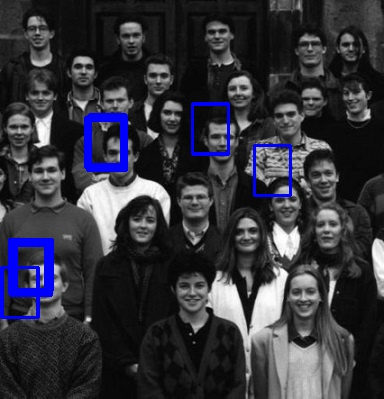
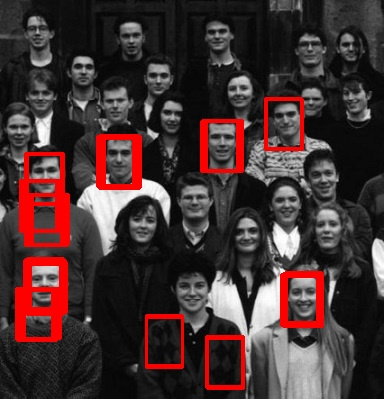
lol

diff --git a/q1/matchFaces_mine.py b/q1/matchFaces_mine.py
@@ -1,140 +1,212 @@
 # Student_Name1, Student_ID1
 # Student_Name2, Student_ID2
 
-# Please replace the above comments with your names and ID numbers in the same format.
-
 import cv2
 import numpy as np
 import matplotlib.pyplot as plt
 from numpy.fft import fft2, ifft2, fftshift, ifftshift
+import warnings
+warnings.filterwarnings("ignore")
 
+##########################################
+# a) scale_down(image, resize_ratio)
+##########################################
+def scale_down(image, resize_ratio):
+    """
+    Scale down the image using a Fourier transform (no smoothing).
+    The output dimensions are (resize_ratio * original dimensions).
+    """
+    image_float = image.astype(np.float32)
+    orig_h, orig_w = image.shape
+    new_h = int(orig_h * resize_ratio)
+    new_w = int(orig_w * resize_ratio)
 
-def scale_image(image, height_ratio, width_ratio):
-    """Scales an image using Fourier Transform based on separate height and width ratios."""
-    h, w = image.shape
-    new_h, new_w = int(h * height_ratio), int(w * width_ratio)
+    F = fftshift(fft2(image_float))
+    center_y, center_x = F.shape[0] // 2, F.shape[1] // 2
+    half_new_h = new_h // 2
+    half_new_w = new_w // 2
 
-    print(f"   -> Scaling image to {new_h}x{new_w} (height ratio: {height_ratio:.2f}, width ratio: {width_ratio:.2f})")
+    if new_h % 2 == 0:
+        y_start = center_y - half_new_h
+        y_end = center_y + half_new_h
+    else:
+        y_start = center_y - half_new_h
+        y_end = center_y + half_new_h + 1
 
-    scaled_image = cv2.resize(image, (new_w, new_h), interpolation=cv2.INTER_LINEAR)
-    return scaled_image
+    if new_w % 2 == 0:
+        x_start = center_x - half_new_w
+        x_end = center_x + half_new_w
+    else:
+        x_start = center_x - half_new_w
+        x_end = center_x + half_new_w + 1
 
+    F_cropped = F[y_start:y_end, x_start:x_end]
+    result = ifft2(ifftshift(F_cropped))
+    result = np.abs(result)
+    result = np.clip(result, 0, 255)
+    return result.astype(np.uint8)
 
+##########################################
+# b) scale_up(image, resize_ratio)
+##########################################
+def scale_up(image, resize_ratio):
+    """
+    Scale up the image using a Fourier transform.
+    Zero-pad the Fourier spectrum so that the output dimensions are
+    (resize_ratio * original dimensions).
+    """
+    image_float = image.astype(np.float32)
+    orig_h, orig_w = image.shape
+    new_h = int(orig_h * resize_ratio)
+    new_w = int(orig_w * resize_ratio)
+
+    F = fftshift(fft2(image_float))
+    newF = np.zeros((new_h, new_w), dtype=complex)
+
+    start_y = (new_h - orig_h) // 2
+    start_x = (new_w - orig_w) // 2
+    newF[start_y:start_y+orig_h, start_x:start_x+orig_w] = F
+
+    result = ifft2(ifftshift(newF))
+    result = np.abs(result)
+    scale_factor = (new_h * new_w) / (orig_h * orig_w)
+    result = result * scale_factor
+    result = np.clip(result, 0, 255)
+    return result.astype(np.uint8)
+
+def scale_image(image, resize_ratio):
+    """
+    Uniformly scale an image using Fourier methods.
+    """
+    if resize_ratio < 1:
+        return scale_down(image, resize_ratio)
+    elif resize_ratio > 1:
+        return scale_up(image, resize_ratio)
+    else:
+        return image.copy()
+
+##########################################
+# c) ncc_2d(image, pattern)
+##########################################
 def ncc_2d(image, pattern):
-    """Computes the Normalized Cross-Correlation (NCC) between an image and a pattern."""
-    image_patches = np.lib.stride_tricks.sliding_window_view(image, pattern.shape)
-    mean_image = np.mean(image_patches, axis=(-2, -1), keepdims=True)
-    mean_pattern = np.mean(pattern)
+    """
+    Compute normalized cross-correlation (NCC) between a grayscale image and a pattern.
+    For memory efficiency we use OpenCV's matchTemplate with TM_CCORR_NORMED.
+    (This avoids creating a huge sliding_window_view array.)
+    """
+    # cv2.matchTemplate returns an array of size (image_h - pattern_h + 1, image_w - pattern_w + 1)
+    result = cv2.matchTemplate(image, pattern, cv2.TM_CCORR_NORMED)
+    return result.astype(np.float32)
 
-    numerator = np.sum((image_patches - mean_image) * (pattern - mean_pattern), axis=(-2, -1))
-    denominator = np.sqrt(np.sum((image_patches - mean_image) ** 2, axis=(-2, -1)) *
-                          np.sum((pattern - mean_pattern) ** 2))
+##########################################
+# d) display(image, pattern)
+##########################################
+def display(image, pattern):
+    """
+    Display the image, the pattern, and the squared NCC heatmap.
+    """
+    plt.figure(figsize=(12,4))
+    plt.subplot(1,3,1)
+    plt.title("Image")
+    plt.imshow(image, cmap="gray", aspect="equal")
 
-    with np.errstate(divide='ignore', invalid='ignore'):
-        ncc = np.where(denominator == 0, 0, numerator / denominator)
+    plt.subplot(1,3,2)
+    plt.title("Pattern")
+    plt.imshow(pattern, cmap="gray", aspect="equal")
 
-    return ncc
-
-
-def find_matches(image, pattern, threshold=0.6, num_best_matches=10):
-    """Finds matches using NCC and returns coordinate list of the brightest spots."""
     ncc = ncc_2d(image, pattern)
-
-    # Find the brightest spots in NCC (top `num_best_matches`)
-    flat_indices = np.argsort(ncc.ravel())[::-1]  # Sort in descending order
-    best_indices = flat_indices[:num_best_matches]  # Take top matches
-
-    # Convert flat indices to 2D indices
-    match_locations = np.array(np.unravel_index(best_indices, ncc.shape)).T
-
-    print(f"   -> Found {len(match_locations)} matches")
-    return match_locations
-
-
-def draw_matches(image, matches, pattern_size):
-    """Draws red rectangles at detected matches."""
-    image = cv2.cvtColor(image, cv2.COLOR_GRAY2BGR)  # Convert to color image
-
-    for y, x in matches:
-        top_left = (int(x - pattern_size[1] // 2), int(y - pattern_size[0] // 2))
-        bottom_right = (int(x + pattern_size[1] // 2), int(y + pattern_size[0] // 2))
-        cv2.rectangle(image, top_left, bottom_right, (255, 0, 0), 2)  # Red rectangle
-
-    print(f"-> Drawing {len(matches)} matches on image")
-
-    plt.imshow(image)
+    plt.subplot(1,3,3)
+    plt.title("NCC Heatmap (squared)")
+    plt.imshow(ncc**2, cmap="coolwarm", vmin=0, vmax=1, aspect="auto")
+    plt.colorbar(label="NCC Values")
     plt.show()
 
-    cv2.imwrite(f"{CURR_IMAGE}_result.jpg", image)
-    print(f"-> Saved results as {CURR_IMAGE}_result.jpg")
+##########################################
+# e) draw_matches(image, matches, pattern_size)
+##########################################
+def draw_matches(image, matches, pattern_size):
+    """
+    Draw red rectangles on the original color image at the detected match centers.
+    """
+    out_img = image.copy()
+    for (y, x) in matches:
+        top_left = (int(x - pattern_size[1] // 2), int(y - pattern_size[0] // 2))
+        bottom_right = (int(x + pattern_size[1] // 2), int(y + pattern_size[0] // 2))
+        cv2.rectangle(out_img, top_left, bottom_right, (0, 0, 255), 2)
+    plt.figure(figsize=(8,8))
+    plt.imshow(cv2.cvtColor(out_img, cv2.COLOR_BGR2RGB))
+    plt.title("Detected Matches")
+    plt.axis("off")
+    plt.show()
+    cv2.imwrite("result.jpg", out_img)
 
+##########################################
+# Main Script
+##########################################
+# We process two images: "students.jpg" and "thecrew.jpg"
+# We have one template "template.jpg". The instructions indicate:
+#   - For students.jpg: expected face ~40px high, 28px wide.
+#   - For thecrew.jpg: expected face ~7px high, 5px wide.
+# We compute a scale factor so that the faces in the image become approximately
+# the same size as the template.
+# Scale factor = average( template_dimension / expected_face_dimension )
+# (Then we scale the image by that factor, compute NCC, and map match coordinates back.)
 
-# Load the pattern
-pattern = cv2.imread('template.jpg', cv2.IMREAD_GRAYSCALE)
-pattern_h, pattern_w = pattern.shape
+threshold = 0.35  # Use a 0.35 threshold
 
-# STUDENTS IMAGE
+# -----------------------------
+# Process Students Image
+# -----------------------------
 CURR_IMAGE = "students"
-image = cv2.imread(f'{CURR_IMAGE}.jpg', cv2.IMREAD_GRAYSCALE)
+students_color = cv2.imread("students.jpg")
+students_gray = cv2.cvtColor(students_color, cv2.COLOR_BGR2GRAY)
+template_img = cv2.imread("template.jpg")
+template_gray = cv2.cvtColor(template_img, cv2.COLOR_BGR2GRAY)
 
-# Range of face sizes to test
-height_range_students = range(30, 51)  # 30 to 50 pixels
-width_range_students = range(25, 33)  # 25 to 32 pixels
+# Compute scale factor:
+#   scale_factor = average( template_height/40, template_width/28 )
+scale_factor_students = ((template_gray.shape[0] / 40) + (template_gray.shape[1] / 28)) / 2.0
+print("Students scale factor:", scale_factor_students)
 
-all_matches_students = []
+students_scaled = scale_image(students_gray, scale_factor_students)
+# We use the template as-is.
+students_pattern = template_gray.copy()
 
-print("\nProcessing students.jpg...")
+display(students_scaled, students_pattern)
 
-for face_h in height_range_students:
-    for face_w in width_range_students:
-        print(f"Testing face size {face_h}x{face_w}")
+ncc_students = ncc_2d(students_scaled, students_pattern)
+matches_students = np.argwhere(ncc_students > threshold)
+# Adjust coordinates to center of pattern.
+matches_students[:, 0] += students_pattern.shape[0] // 2
+matches_students[:, 1] += students_pattern.shape[1] // 2
+# Map coordinates back to original image space.
+matches_students = np.floor(matches_students / scale_factor_students).astype(int)
 
-        height_ratio = pattern_h / face_h
-        width_ratio = pattern_w / face_w
-        scaled_image = scale_image(image, height_ratio, width_ratio)
+draw_matches(students_color, matches_students, students_pattern.shape)
 
-        real_matches = find_matches(scaled_image, pattern)
-
-        # Scale back matches to original size
-        real_matches[:, 0] = (real_matches[:, 0] / height_ratio).astype(int)
-        real_matches[:, 1] = (real_matches[:, 1] / width_ratio).astype(int)
-
-        all_matches_students.extend(real_matches)
-
-# Remove duplicates
-all_matches_students = np.unique(all_matches_students, axis=0)
-
-draw_matches(image, all_matches_students, pattern.shape)
-
-# CREW IMAGE
+# -----------------------------
+# Process Crew Image
+# -----------------------------
 CURR_IMAGE = "thecrew"
-image = cv2.imread(f'{CURR_IMAGE}.jpg', cv2.IMREAD_GRAYSCALE)
+crew_color = cv2.imread("thecrew.jpg")
+crew_gray = cv2.cvtColor(crew_color, cv2.COLOR_BGR2GRAY)
+template_img = cv2.imread("template.jpg")
+template_gray = cv2.cvtColor(template_img, cv2.COLOR_BGR2GRAY)
 
-# Range of face sizes to test
-height_range_crew = range(5, 10)  # 5 to 9 pixels
-width_range_crew = range(4, 8)  # 4 to 7 pixels
+# For thecrew.jpg: expected face ~7px high, 5px wide.
+scale_factor_crew = ((template_gray.shape[0] / 7) + (template_gray.shape[1] / 5)) / 2.0
+print("Crew scale factor:", scale_factor_crew)
 
-all_matches_crew = []
+crew_scaled = scale_image(crew_gray, scale_factor_crew)
+crew_pattern = template_gray.copy()  # Template remains unscaled
 
-print("\nProcessing thecrew.jpg...")
+display(crew_scaled, crew_pattern)
 
-for face_h in height_range_crew:
-    for face_w in width_range_crew:
-        print(f"Testing face size {face_h}x{face_w}")
+ncc_crew = ncc_2d(crew_scaled, crew_pattern)
+matches_crew = np.argwhere(ncc_crew > threshold)
+matches_crew[:, 0] += crew_pattern.shape[0] // 2
+matches_crew[:, 1] += crew_pattern.shape[1] // 2
+# Map match coordinates back to the original image.
+matches_crew = np.floor(matches_crew / scale_factor_crew).astype(int)
 
-        height_ratio = pattern_h / face_h
-        width_ratio = pattern_w / face_w
-        scaled_image = scale_image(image, height_ratio, width_ratio)
-
-        real_matches = find_matches(scaled_image, pattern)
-
-        # Scale back matches to original size
-        real_matches[:, 0] = (real_matches[:, 0] / height_ratio).astype(int)
-        real_matches[:, 1] = (real_matches[:, 1] / width_ratio).astype(int)
-
-        all_matches_crew.extend(real_matches)
-
-# Remove duplicates
-all_matches_crew = np.unique(all_matches_crew, axis=0)
-
-draw_matches(image, all_matches_crew, pattern.shape)
+draw_matches(crew_color, matches_crew, crew_pattern.shape)
